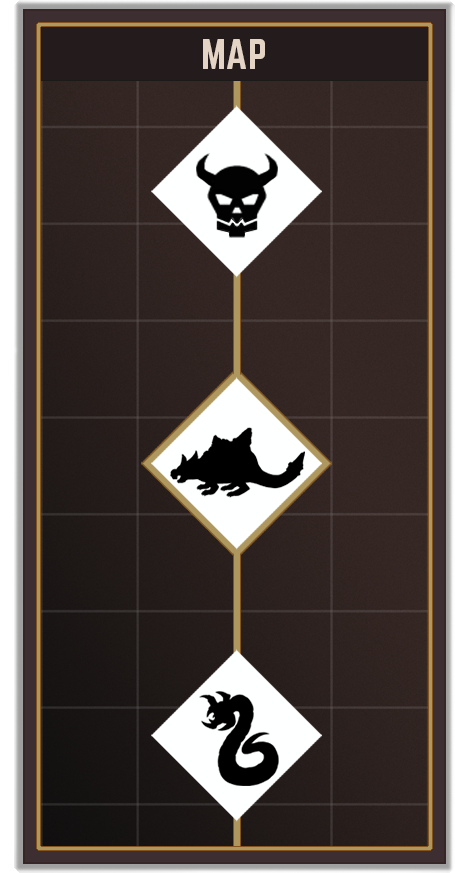
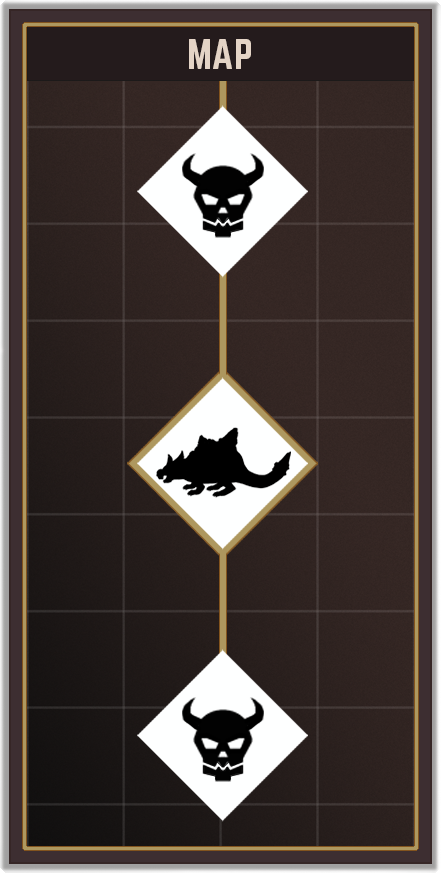
Map Fix

diff --git a/GoopEngine/Editor/Source/ScriptEngine/ScriptManager.h b/GoopEngine/Editor/Source/ScriptEngine/ScriptManager.h
@@ -497,12 +497,34 @@ namespace GE::MONO
 	************************************************************************/
 	bool CheckMonoError(MonoError& error);
 
+	/*!*********************************************************************
+	\brief
+		Check if the application has lost focus
+	************************************************************************/
 	static bool GetLoseFocus();
 
+	/*!*********************************************************************
+	\brief
+		Set the value of focus.
+	\param bool active
+		bool to set the value
+	************************************************************************/
 	static void SetLoseFocus(bool active);
 
+	/*!*********************************************************************
+	\brief
+		Set the entity's active value.
+	\param GE::ECS::Entity entity, bool active
+		Set the entity id with the bool value.
+	************************************************************************/
 	static void SetIsActiveEntity(GE::ECS::Entity entity, bool active);
 
+	/*!*********************************************************************
+	\brief
+		Get the entity's active value.
+	\param GE::ECS::Entity entity
+		Entity id
+	************************************************************************/
 	static bool GetIsActiveEntity(GE::ECS::Entity entity);
 
 	/*!*********************************************************************

diff --git a/GoopEngine/GoopScripts/Source/Gameplay/HomeBase.cs b/GoopEngine/GoopScripts/Source/Gameplay/HomeBase.cs
@@ -58,13 +58,9 @@ namespace GoopScripts.Gameplay
       {
         Utils.UpdateSprite((uint)m_mapID, "UI_Map_04");
       }
-      if (m_levelToLoad == 4)
+      if (m_levelToLoad >= 4)
       {
         Utils.UpdateSprite((uint)m_mapID, "UI_Map_05");
-      }
-      if (m_levelToLoad >= 5)
-      {
-        Utils.UpdateSprite((uint)m_mapID, "UI_Map_06");
       }
       int counter = 0;
       foreach (var card in statsInfo.deckList)

diff --git a/GoopEngine/GoopScripts/Source/UI/Tooltip.cs b/GoopEngine/GoopScripts/Source/UI/Tooltip.cs
@@ -19,7 +19,7 @@ namespace GoopScripts.Source.UI
 {
   public class Tooltip : IButtonHoverEnter, IButtonHoverExit
   {
-    static readonly int LEVELS = 6;
+    static readonly int LEVELS = 5;
     public int[] tooltipID = new int[LEVELS];
     int m_levelToLoad;
 
